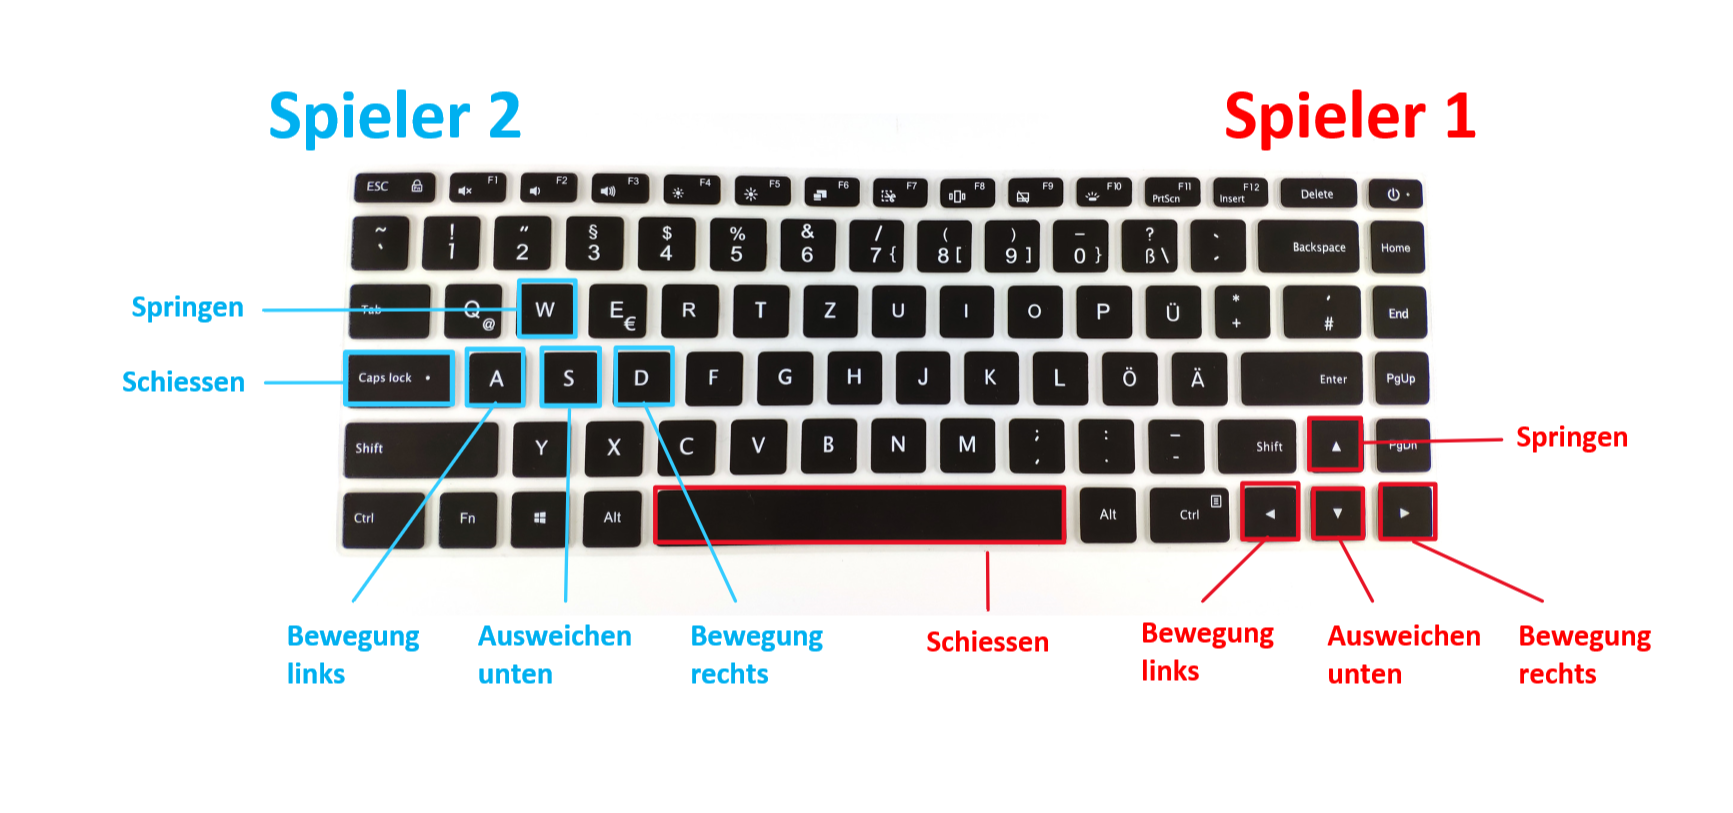
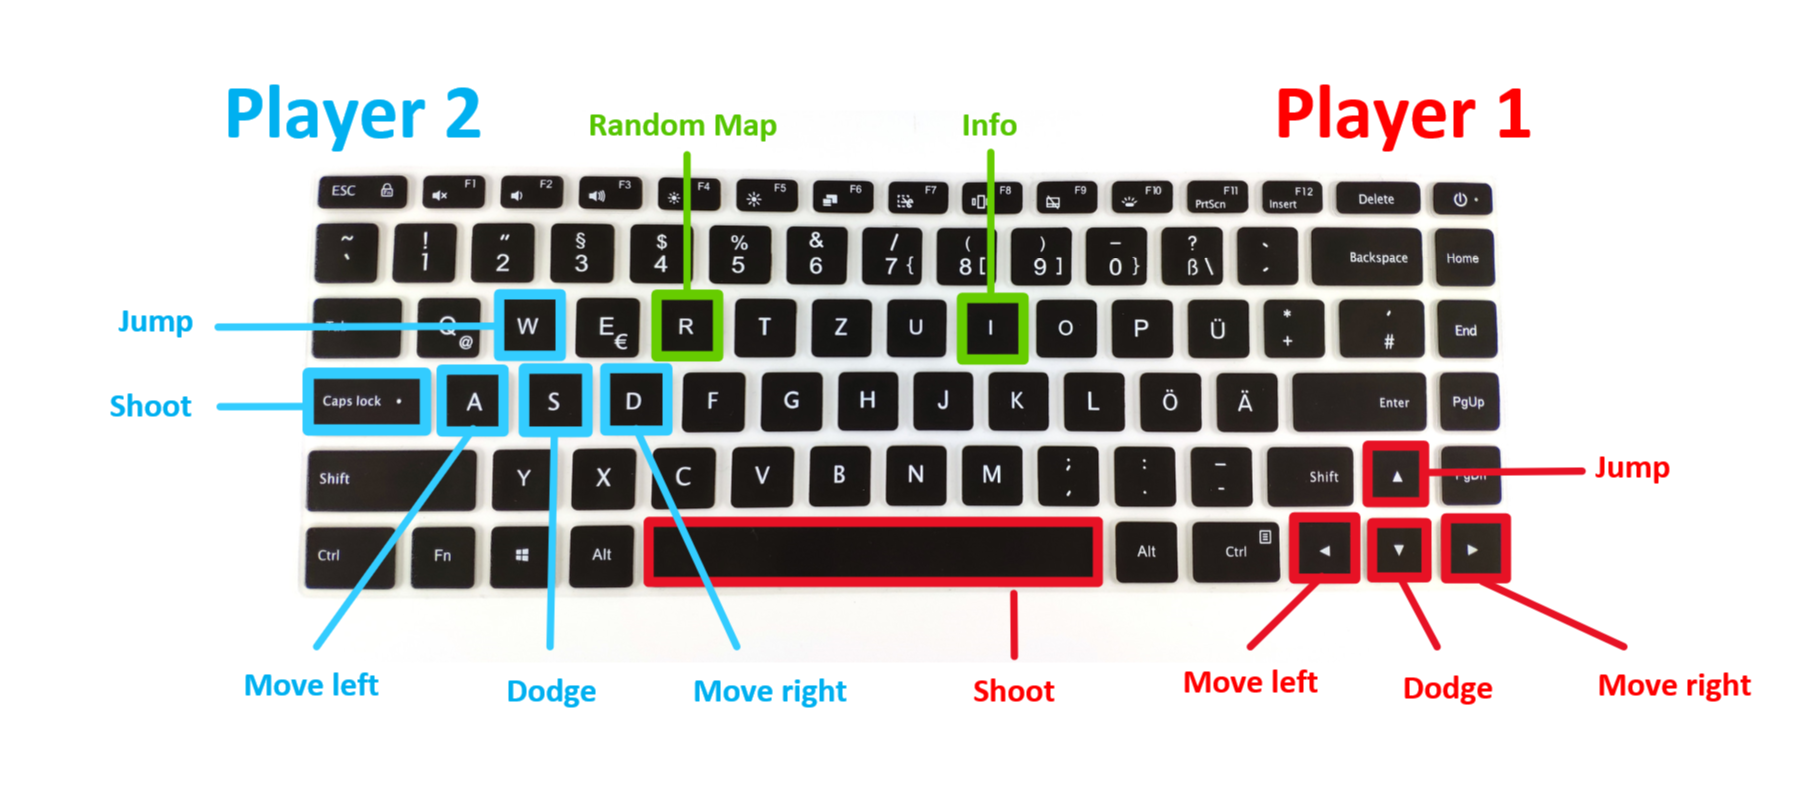
lives in game over

diff --git a/Main.py b/Main.py
@@ -40,6 +40,15 @@ class MAIN:
         # print(no_go_zones)
         # print(choice([i for i in range(0, 9) if i not in [2, 5, 7]]))
 
+    def draw_lives_p1(self):
+        # F-String from Vid 3
+        self.draw_text(player_1.lives, self.lives_font, (0, 0, 0), screen.get_width() - 100, interface.rect_p1_lives.centery)
+
+    def draw_lives_p2(self):
+        self.draw_text(player_2.lives, self.lives_font, (0, 0, 0), 100, interface.rect_p2_lives.centery)
+
+    def draw_lives_bot(self):
+        self.draw_text(bot_1.lives, self.lives_font, (0, 0, 0), 100, interface.rect_p2_lives.centery)
 
 
     def update_elements(self):
@@ -64,9 +73,9 @@ class MAIN:
         for item in items:
             item.update(player_1, player_2, items)
 
-        # F-String from Vid 3
-        self.draw_text(player_1.lives, self.lives_font, (0, 0, 0), screen.get_width() - 100, interface.rect_p1_lives.centery)
-        self.draw_text(player_2.lives, self.lives_font, (0, 0, 0), 100, interface.rect_p2_lives.centery)
+        self.draw_lives_p1()
+        self.draw_lives_p2()
+
 
 
 
@@ -91,9 +100,8 @@ class MAIN:
             item.update(player_1, player_2, items)
 
         # F-String from Vid 3
-        self.draw_text(player_1.lives, self.lives_font, (0, 0, 0), screen.get_width() - 100, interface.rect_p1_lives.centery)
-        self.draw_text(bot_1.lives, self.lives_font, (0, 0, 0), 100, interface.rect_p2_lives.centery)
-
+        self.draw_lives_p1()
+        self.draw_lives_bot()
     def check_keys(self):
         # P1
         keys = pygame.key.get_pressed()
@@ -151,13 +159,13 @@ class MAIN:
             blocks[1:] = []
             main.random_map()
 
-        # ITEM
-        for item in items:
-            if keys[pygame.K_i]:
-                item.rand_pos()
+        # # ITEM
+        # for item in items:
+        #     if keys[pygame.K_i]:
+        #         item.rand_pos()
 
         # INFO
-        if keys[pygame.K_h]:
+        if keys[pygame.K_i]:
             interface.draw_info()
 
 
@@ -168,7 +176,12 @@ class MAIN:
             self.winner = 2
             self.game_over = True
 
-        if player_2.lives < 1 or bot_1.lives < 1:
+
+        if player_2.lives < 1:
+            self.winner = 1
+            self.game_over = True
+
+        if bot_1.lives < 1:
             self.winner = 1
             self.game_over = True
         #
@@ -246,7 +259,9 @@ one_player = False
 main.random_map()
 main.random_items()
 
+# F-string VID 3
 while start_screen:
+    chosen_event = None
     for event in pygame.event.get():
         if event.type == pygame.QUIT:
             start_screen = False
@@ -254,15 +269,17 @@ while start_screen:
     main.draw_text("CHOOSE A GAME MODE", main.title_font, pygame.Color("black"), screen.get_width() // 2, screen.get_height()//2-150)
     main.draw_text("press 1 for single player",main.subtitle_font, pygame.Color("black"),screen.get_width()//2,screen.get_height()//2)
     main.draw_text("press 2 for two-player",main.subtitle_font,pygame.Color("black"), screen.get_width()//2,screen.get_height()//2+50)
-    main.draw_text("hold h for info", main.subtitle_font, pygame.Color("black"), screen.get_width() // 2,screen.get_height()//2+100)
+    main.draw_text("hold i for info", main.subtitle_font, pygame.Color("black"), screen.get_width() // 2,screen.get_height()//2+100)
     keys = pygame.key.get_pressed()
     if keys[pygame.K_2]:
         start_screen = False
         two_player = True
+        chosen_event = "2p"
     if keys[pygame.K_1]:
         start_screen = False
         one_player = True
-    if keys[pygame.K_h]:
+        chosen_event = "1p"
+    if keys[pygame.K_i]:
         interface.draw_info()
     clock.tick(FPS)
     pygame.display.update()
@@ -311,10 +328,21 @@ while main.game_over:
     if main.winner == 1:
         winner_color = "red"
         player_1.update(blocks)
+        interface.draw_p1()
+        main.draw_lives_p1()
 
     if main.winner == 2:
         winner_color = "blue"
-        player_2.update(blocks)
+        if chosen_event == "2p":
+            player_2.update(blocks)
+            interface.draw_p2()
+            main.draw_lives_p2()
+        elif chosen_event == "1p":
+            bot_1.update(blocks)
+            bot_1.update_controlls(BULLET, player_1)
+            interface.draw_p2()
+            main.draw_lives_bot()
+
 
     main.draw_text(f"Player {main.winner} wins", main.title_font, pygame.Color(winner_color), screen.get_width() // 2, screen.get_height() // 2 - 50)
     main.draw_text("GAME OVER", main.subtitle_font, pygame.Color(winner_color), screen.get_width() // 2, screen.get_height() // 2)

diff --git a/Interface.py b/Interface.py
@@ -21,12 +21,13 @@ class INTERFACE:
         self.info_img = pygame.transform.scale(self.info_img, (screen.get_width(), screen.get_width() * self.info_img_ratio))
 
 
-    def draw(self):
-        pygame.draw.rect(screen, (255, 255, 255), self.rect_p2)
+    def draw_p1(self):
         pygame.draw.rect(screen, (255, 255, 255), self.rect_p1)
-        pygame.draw.rect(screen, pygame.Color("blue"), self.rect_p2_lives)
         pygame.draw.rect(screen, pygame.Color("red"), self.rect_p1_lives)
 
+    def draw_p2(self):
+        pygame.draw.rect(screen, (255, 255, 255), self.rect_p2)
+        pygame.draw.rect(screen, pygame.Color("blue"), self.rect_p2_lives)
 
     def p1_lose_life(self, damage):
         self.rect_p1_lives.w -= (damage / PLAYER_LIVES) * (self.w - self.border*3)
@@ -38,4 +39,5 @@ class INTERFACE:
         screen.blit(self.info_img, self.info_rect)
 
     def update(self):
-        self.draw()
+        self.draw_p1()
+        self.draw_p2()

diff --git a/Constants.py b/Constants.py
@@ -23,7 +23,7 @@ PLAYER_2_START_Y = screen.get_height() / 2
 PLAYER_1_START_X = screen.get_width() - PLAYER_2_START_X
 PLAYER_1_START_Y = PLAYER_2_START_Y
 
-PLAYER_LIVES = 100
+PLAYER_LIVES = 10
 BULLET_DAMAGE = 5
 GRAVITY = 1
 BULLET_W = PLAYER_W * 0.5
